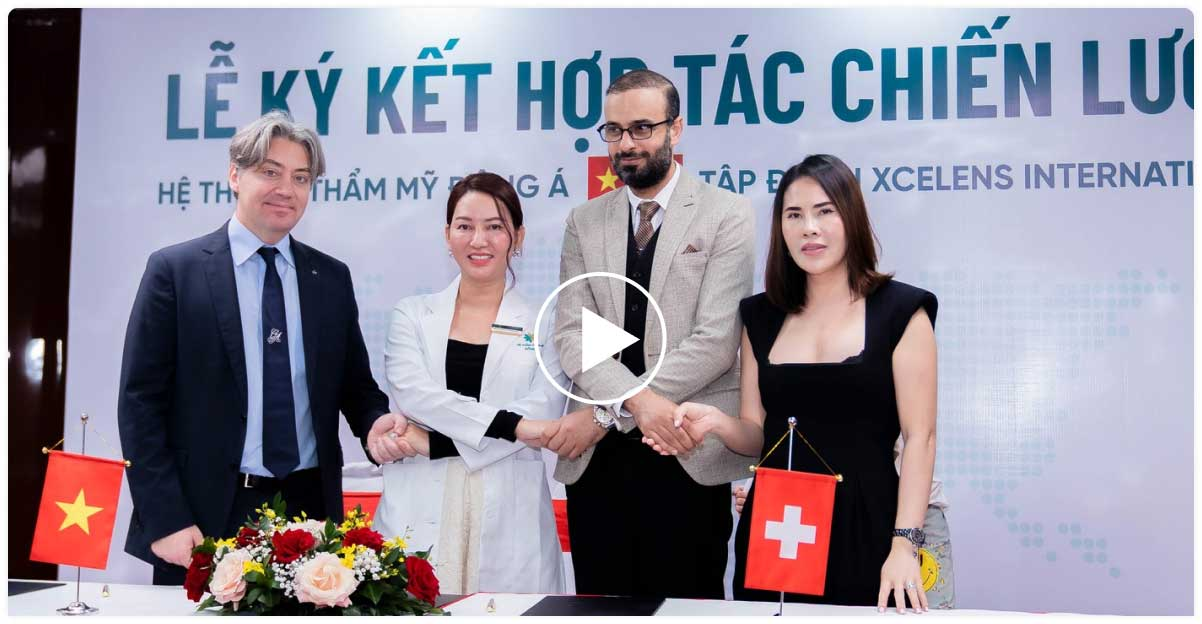
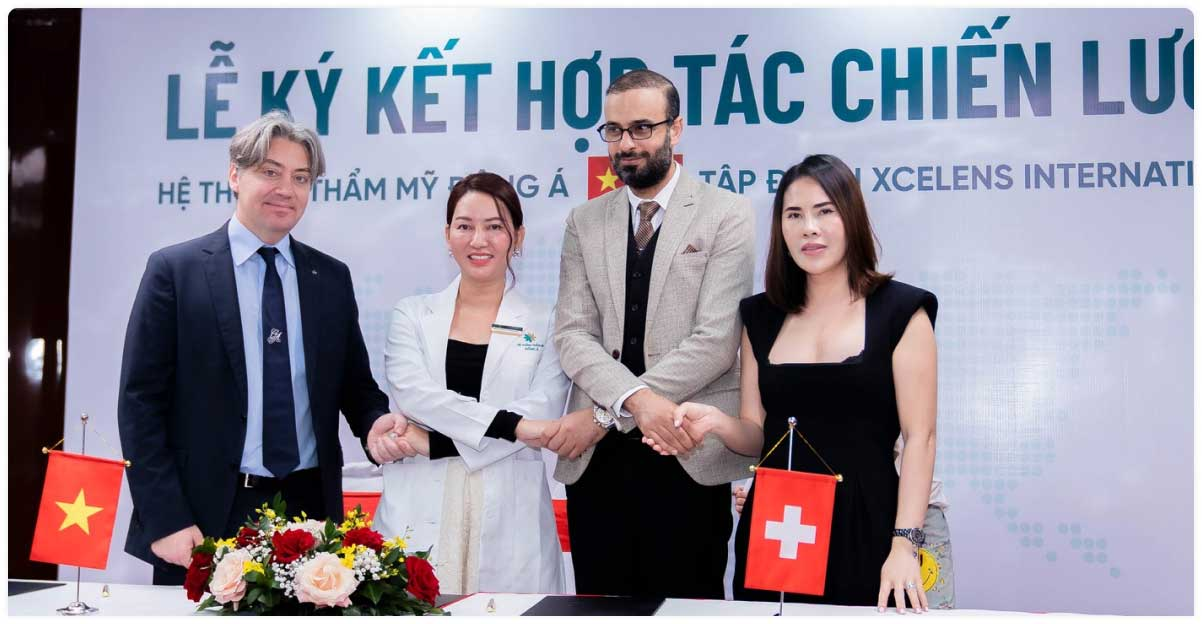
update video

Changed region(s): [[0.4309, 0.4567, 0.5541, 0.6394], [0.4617, 0.4263, 0.5233, 0.4567], [0.4925, 0.6394, 0.5233, 0.6699]]

diff --git a/Home/video_da_1_0_0/sass/video_da_1_0_0.css b/Home/video_da_1_0_0/sass/video_da_1_0_0.css
@@ -1,2 +1,2 @@
-.video_da_1_0_0{padding:20px 0}.video_da_1_0_0__title{font-size:26px;text-align:left;font-weight:600;color:#007471;border-bottom:2px solid #007471;text-transform:uppercase;padding-bottom:5px}.video_da_1_0_0__box{display:-webkit-box;display:-ms-flexbox;display:flex;-ms-flex-wrap:wrap;flex-wrap:wrap;gap:10px;-webkit-box-pack:justify;-ms-flex-pack:justify;justify-content:space-between;padding:20px 0}.video_da_1_0_0__content{width:49%}.video_da_1_0_0__video{overflow:hidden}.video_da_1_0_0__video img{width:100%;height:auto;display:block;-webkit-transition:all 0.2s linear;transition:all 0.2s linear}.video_da_1_0_0__video img:hover{opacity:0.8;-webkit-transition:0.5s;transition:0.5s;cursor:pointer}.video_da_1_0_0__text{text-align:left;color:#000;font-size:16px;font-weight:600;padding:15px;-webkit-box-shadow:rgba(0,0,0,0.16) 0px 1px 4px;box-shadow:rgba(0,0,0,0.16) 0px 1px 4px;border-bottom-left-radius:5px;border-bottom-right-radius:5px;-webkit-transition:all 0.2s linear;transition:all 0.2s linear}.video_da_1_0_0__text:hover{background-color:#eee}.video_da_1_0_0__item{display:-webkit-box;display:-ms-flexbox;display:flex;-webkit-box-align:center;-ms-flex-align:center;align-items:center;-webkit-box-shadow:rgba(0,0,0,0.16) 0px 1px 4px;box-shadow:rgba(0,0,0,0.16) 0px 1px 4px;margin-bottom:15px;-webkit-transition:all 0.2s linear;transition:all 0.2s linear}.video_da_1_0_0__item:hover{background-color:#eee}.video_da_1_0_0__pic{overflow:hidden;width:35%}.video_da_1_0_0__pic img{width:100%;height:auto;display:block;-webkit-transition:all 0.2s linear;transition:all 0.2s linear}.video_da_1_0_0__pic img:hover{opacity:0.8;-webkit-transition:0.5s;transition:0.5s;cursor:pointer}.video_da_1_0_0__detail{width:75%;text-align:left;color:#000;font-size:16px;font-weight:600;padding:10px}.video_da_1_0_0__btn{text-align:center}.video_da_1_0_0__btn a{color:#007471;font-weight:600;font-size:16px;border-bottom:2px solid #007471}.video_da_1_0_0__btn:hover a{color:#D8A956;border-bottom:2px solid #D8A956}@media (max-width: 820px){.video_da_1_0_0__title{font-size:26px}.video_da_1_0_0__text{font-size:16px}.video_da_1_0_0__detail{font-size:16px}}@media (max-width: 767px){.video_da_1_0_0{padding:0}.video_da_1_0_0__content{width:100%}.video_da_1_0_0__box{gap:15px}}@media (max-width: 320px){.video_da_1_0_0__text{padding:15px 5px}.video_da_1_0_0__text br{display:none}}
+.video_da_1_0_0{padding:20px 0}.video_da_1_0_0__title{font-size:26px;text-align:left;font-weight:600;color:#007471;border-bottom:2px solid #007471;text-transform:uppercase;padding-bottom:5px}.video_da_1_0_0__box{display:-webkit-box;display:-ms-flexbox;display:flex;-ms-flex-wrap:wrap;flex-wrap:wrap;gap:10px;-webkit-box-pack:justify;-ms-flex-pack:justify;justify-content:space-between;padding:20px 0}.video_da_1_0_0__content{width:49%}.video_da_1_0_0__video{overflow:hidden;background:#000;position:relative}.video_da_1_0_0__video::after{content:"";position:absolute;background:url(../images/play.png) center 0 no-repeat;background-size:60%;width:80px;height:80px;display:block;left:calc(50% - 40px);top:calc(50% - 25px);-webkit-transition:.3s;transition:.3s;opacity:1}.video_da_1_0_0__video img{opacity:0.6;width:100%;height:auto;-webkit-transition:0.3s;transition:0.3s;position:relative;display:block}.video_da_1_0_0__video img:hover{opacity:1;cursor:pointer}.video_da_1_0_0__text{text-align:left;color:#000;font-size:16px;font-weight:600;padding:15px;-webkit-box-shadow:rgba(0,0,0,0.16) 0px 1px 4px;box-shadow:rgba(0,0,0,0.16) 0px 1px 4px;border-bottom-left-radius:5px;border-bottom-right-radius:5px;-webkit-transition:all 0.2s linear;transition:all 0.2s linear}.video_da_1_0_0__text:hover{background-color:#eee}.video_da_1_0_0__item{display:-webkit-box;display:-ms-flexbox;display:flex;-webkit-box-align:center;-ms-flex-align:center;align-items:center;-webkit-box-shadow:rgba(0,0,0,0.16) 0px 1px 4px;box-shadow:rgba(0,0,0,0.16) 0px 1px 4px;margin-bottom:15px;-webkit-transition:all 0.2s linear;transition:all 0.2s linear}.video_da_1_0_0__item:hover{background-color:#eee}.video_da_1_0_0__pic{overflow:hidden;width:35%;position:relative;background:#000}.video_da_1_0_0__pic img{width:100%;height:auto;display:block;-webkit-transition:all 0.2s linear;transition:all 0.2s linear;opacity:0.6}.video_da_1_0_0__pic img:hover{opacity:1;-webkit-transition:0.5s;transition:0.5s;cursor:pointer}.video_da_1_0_0__pic::after{content:"";position:absolute;background:url(../images/play.png) center 0 no-repeat;background-size:45%;width:60px;height:45px;display:block;left:calc(50% - 30px);top:calc(50% - 13px);-webkit-transition:.3s;transition:.3s;opacity:1}.video_da_1_0_0__detail{width:75%;text-align:left;color:#000;font-size:16px;font-weight:600;padding:10px}.video_da_1_0_0__btn{text-align:center}.video_da_1_0_0__btn a{color:#007471;font-weight:600;font-size:16px;border-bottom:2px solid #007471}.video_da_1_0_0__btn:hover a{color:#D8A956;border-bottom:2px solid #D8A956}@media (max-width: 820px){.video_da_1_0_0__title{font-size:26px}.video_da_1_0_0__text{font-size:16px}.video_da_1_0_0__detail{font-size:16px}}@media (max-width: 767px){.video_da_1_0_0{padding:0}.video_da_1_0_0__content{width:100%}.video_da_1_0_0__box{gap:15px}}@media (max-width: 320px){.video_da_1_0_0__text{padding:15px 5px}.video_da_1_0_0__text br{display:none}}
 /*# sourceMappingURL=video_da_1_0_0.css.map */

diff --git a/Home/video_da_1_0_0/sass/video_da_1_0_0.scss b/Home/video_da_1_0_0/sass/video_da_1_0_0.scss
@@ -25,20 +25,40 @@
 
     &__video {
         overflow: hidden;
+        background: #000;
+        position: relative;
+
+        &::after {
+            content: "";
+            position: absolute;
+            background: url(../images/play.png) center 0 no-repeat;
+            background-size: 60%;
+            width: 80px;
+            height: 80px;
+            display: block;
+            left: calc(50% - 40px);
+            top: calc(50% - 25px);
+            transition: .3s;
+            opacity: 1;
+        }
 
         img {
+            opacity: 0.6;
             width: 100%;
             height: auto;
+            transition: 0.3s;
+            position: relative;
             display: block;
-            transition: all 0.2s linear;
 
             &:hover {
-                opacity: 0.8;
-                transition: 0.5s;
+                opacity: 1;
                 cursor: pointer;
             }
+
         }
+
     }
+
 
     &__text {
         text-align: left;
@@ -71,18 +91,36 @@
     &__pic {
         overflow: hidden;
         width: 35%;
+        position: relative;
+        background: #000;
 
         img {
             width: 100%;
             height: auto;
             display: block;
             transition: all 0.2s linear;
+            opacity: 0.6;
+
 
             &:hover {
-                opacity: 0.8;
+                opacity: 1;
                 transition: 0.5s;
                 cursor: pointer;
             }
+        }
+
+        &::after {
+            content: "";
+            position: absolute;
+            background: url(../images/play.png) center 0 no-repeat;
+            background-size: 45%;
+            width: 60px;
+            height: 45px;
+            display: block;
+            left: calc(50% - 30px);
+            top: calc(50% - 13px);
+            transition: .3s;
+            opacity: 1;
         }
     }
 
